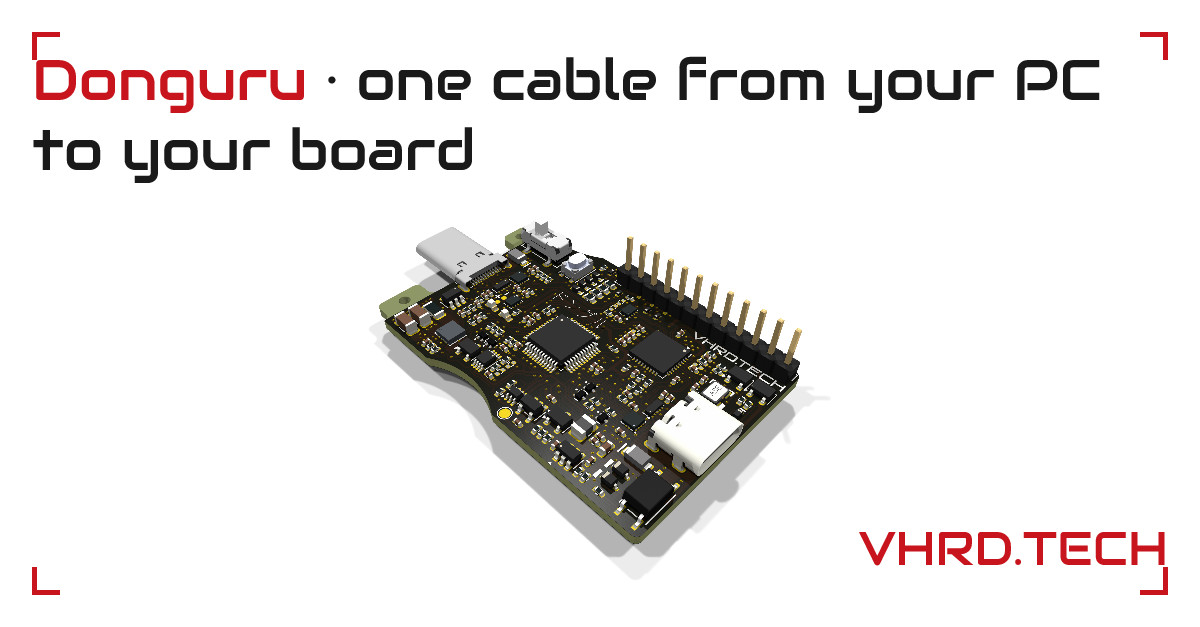
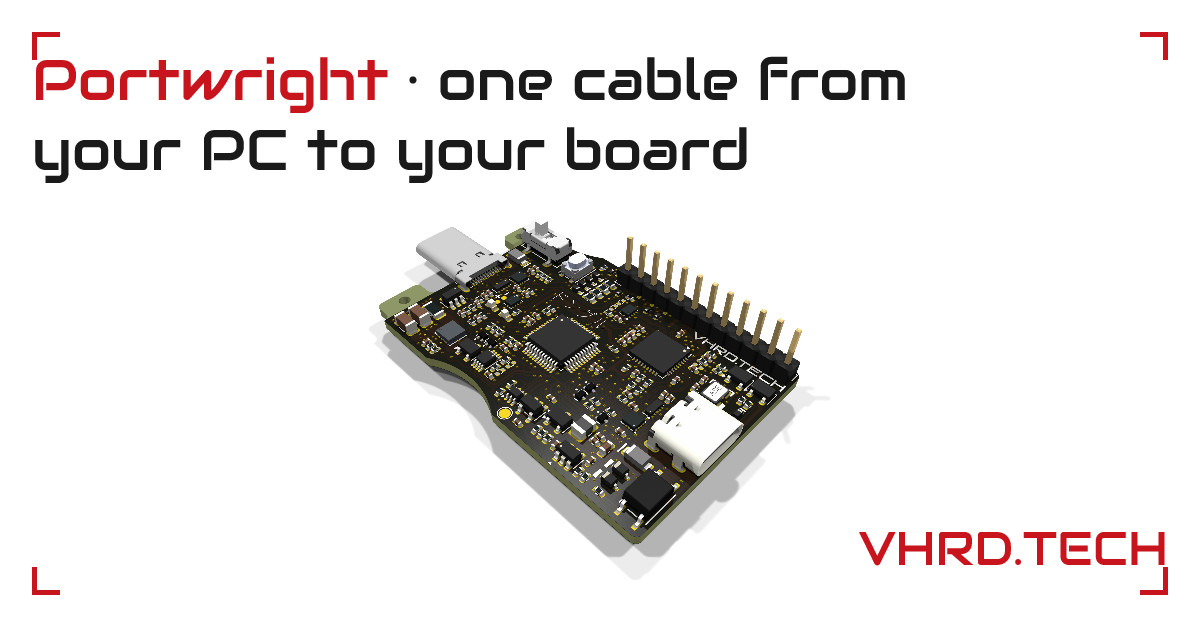
Redraw Portwright's share image
The longer name pushed the first line past the corner marks (1183 of
1168 px), so the headline breaks after "from". Rendered with just og.
Tested: just og, check_live.py built.

Changed region(s): [[0.0308, 0.0909, 0.925, 0.303]]

diff --git a/CHANGELOG.md b/CHANGELOG.md
@@ -46,6 +46,7 @@
 
 - The product page moves from /donguru/ to /portwright/ (SITE-11 portwright-page); /donguru/ and its #notify answer a 301 there.
 - Donguru is now Portwright on every page (SITE-11 portwright-page); the examples use the `pw` command and `portwright_core`.
+- Portwright's share image says Portwright, its headline rewrapped to fit (ASSET-2 og-images).
 - Share images under fixed names (ASSET-2 og-images): `static/img/og/default.jpg`, `default-square.jpg`, `donguru.png`, ... instead of a round number in every name (`default-6.jpg`). `templates/base.html` adds `?v=` and the images' version to `og:image`, `og:image:secure_url` and `twitter:image`, so the crawlers that cache a preview by its image URL still fetch a changed image again. The version is one short hash over every file under `static/img/og/` (`tools/og_version.py`), written into `data/og.toml` by `just og` or by `python3 tools/og_version.py` alone; one hash for the set, since nginx answers one URL with different files by User-Agent. `tools/check_live.py built` fails a page whose `?v=` is not the version of the build's images. `config.toml`, the pages' front matter and `deploy/nginx-og.conf` / `nginx-og-location.conf` no longer change with an image, so a new image needs no root step on the server. The two nginx files now name `default.jpg`, `default-square.jpg` and `default.png`: root installs them once more, right before the deploy that ships this. The `-6` URLs are gone after that deploy, like every earlier round's. `just og --check` writes its shots as `target/shots/og-*.png`. The Deploy job's sparse checkout includes `tools/og_version.py`, which `check_live.py` imports.
 - Link previews, round 4 (ASSET-2 og-images): `og:image` and `twitter:image` are now two different files of the same frame, since LinkedIn's Post Inspector still showed the transparent PNG blurry and opengraph.xyz failed on it outright, and LinkedIn and Facebook fill a transparent image's alpha with a dull grey rather than their card's white when they don't honour it (Roman, 6 Nov 2026, round 4). `tools/og_images.py` now writes each board twice: the existing truecolour RGBA PNG (`<name>-2.png`, transparent, for `twitter:image`, since X reads it first and shows it on its own light or dark theme) and a new truecolour JPEG (`<name>-3.jpg`, quality 90, 4:4:4 chroma, baseline not progressive, flattened onto white, for `og:image`). `tools/check_pages.py` now checks `og:image` is a 1200x627 truecolour JPEG matching its `og:image:type`/`secure_url` and `twitter:image` a different, 1200x627 truecolour PNG with an alpha channel. Every page's meta description and `og:description` are now 100-160 characters (eight pages were too short, one too long) so LinkedIn, Facebook and search results neither truncate them nor cut them off; the home page's names no product, per the brand rule for its long-lived text. `tools/check_pages.py` checks the 100-160 range and that no `og:*`/`twitter:*`/`description` meta tag appears twice on a page (none did). Checked and not changed: `og:image:secure_url` was already set, the live site already serves gzip and no duplicate og tags, and the home page's 180 KB of inline CSS and HTML is not shrunk for this, since nothing found shows a scraper's limit below that; the live site answers HTTP/1.1, not HTTP/2, which is nginx's own setting on the server, outside this repo.
 - README.md is a short pointer now (what the repo is, build and deploy in a few lines, the licence); every working instruction, convention and recipe that used to be split between the two files now lives in AGENTS.md, in one place each.
